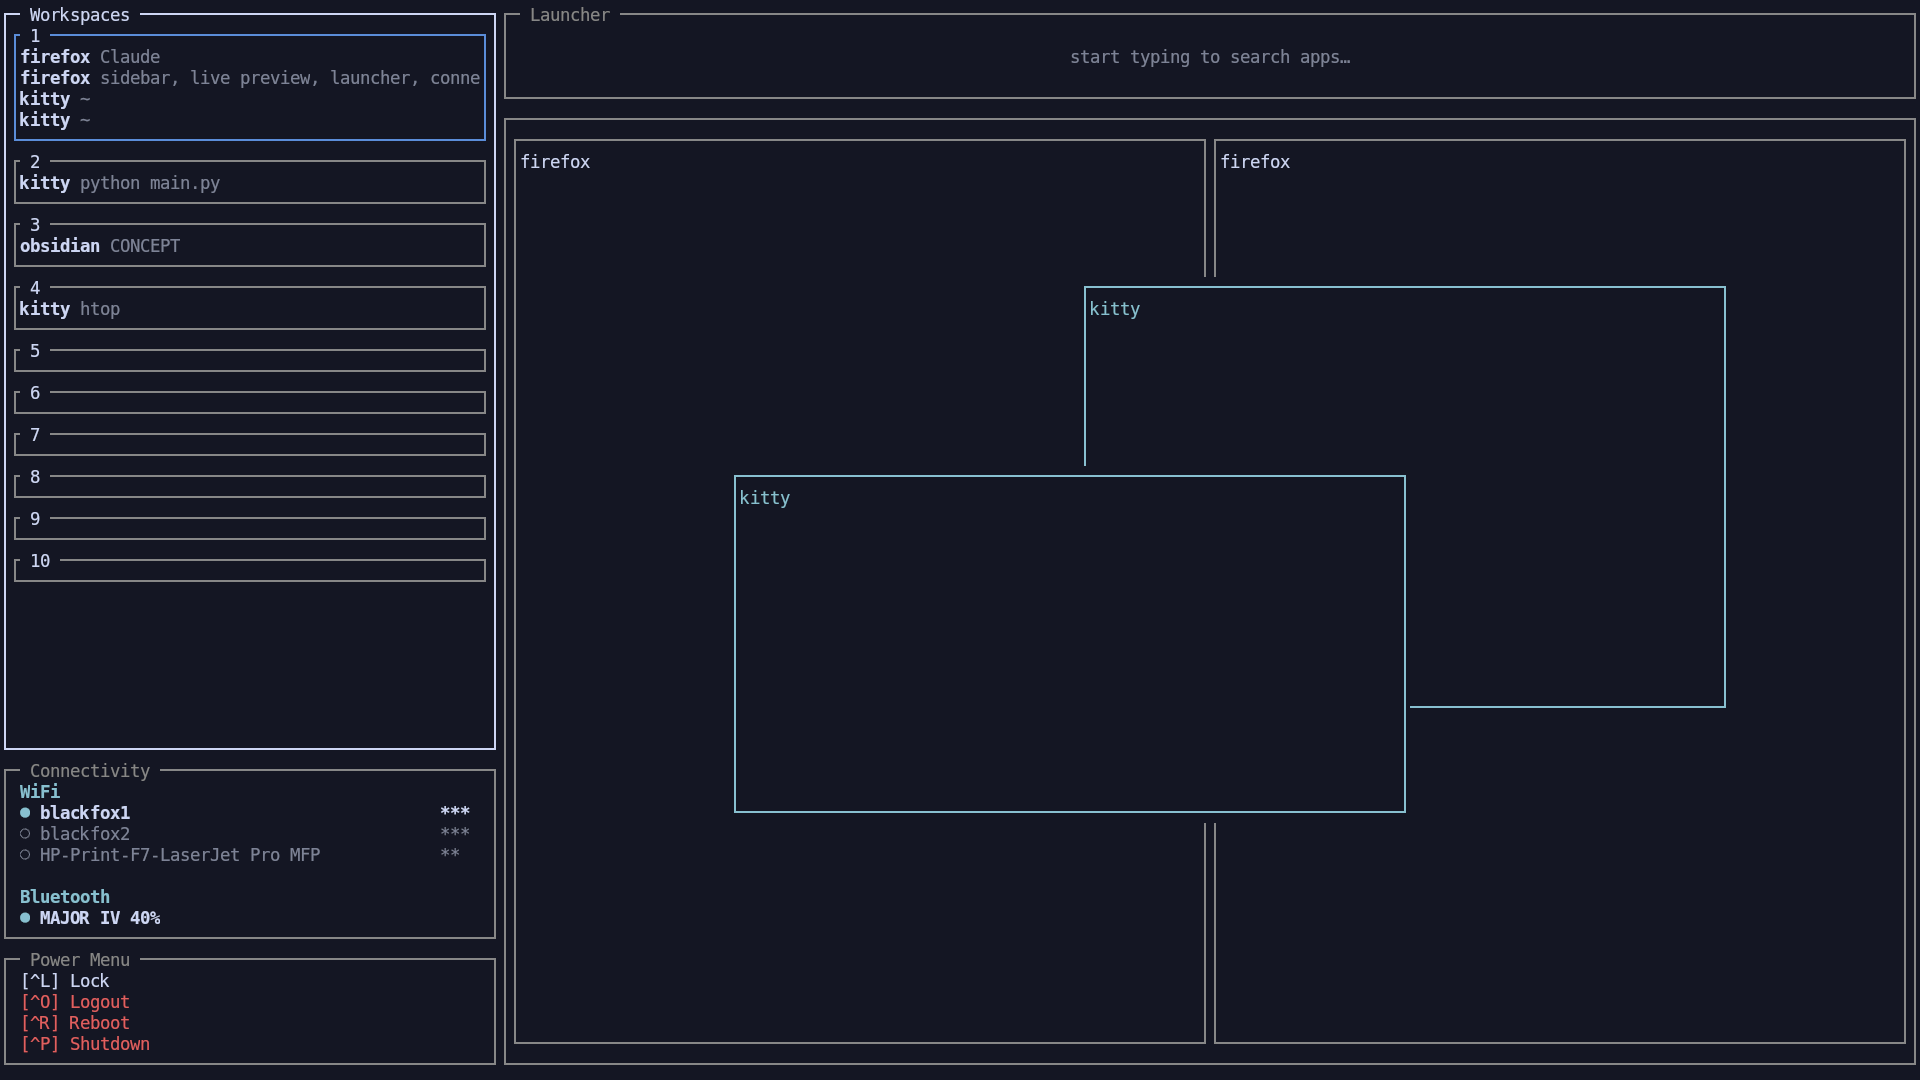
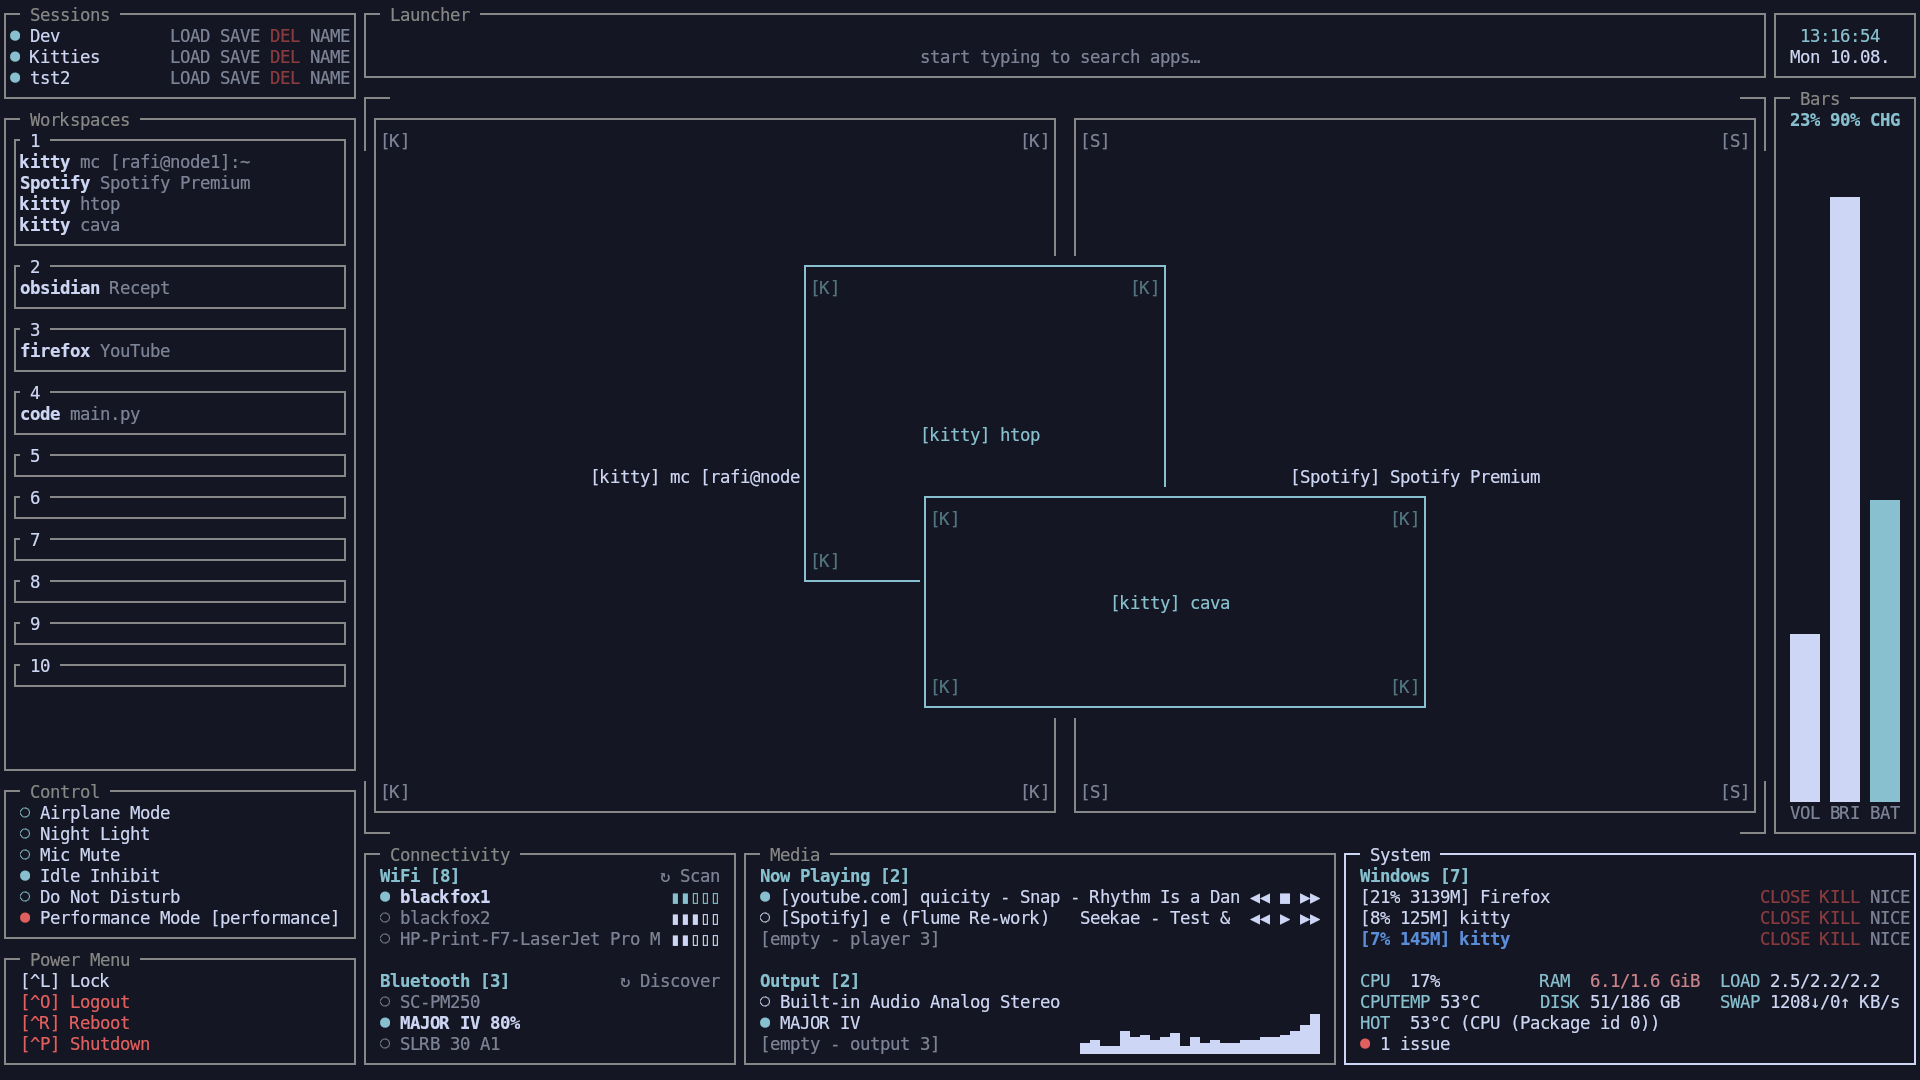
README: fresh screenshots, a closer-look gallery, fix stale claims
Main screenshot.png replaced with a current capture (live, right after
the preview.py corner-label rework in the previous commit) — the old
one predates several features shown in it now.

New "A closer look" section, six screenshots + captions, one per
behavior asked to be called out specifically:
- Control's hover preview showing the exact command about to run
  (including a SHELL=TRUE warning when shell_true is set)
- Power menu's Y/N confirm before a destructive action
- Sessions' load preview — incoming windows shown in red against each
  target workspace's current contents, before you commit to loading
- WiFi's header hover showing every scanned network, not just the
  visible_slots-limited rows the list itself shows
- Media's Now Playing/Output lists, using the same scrollable
  fixed-slot mechanic as every other list here (visible_slots = 3 by
  default, configurable per module)
- System's per-window stats plus a diagnostics issue expanded via
  hover (a real bluetoothd error, captured live)

Also fixed two claims the new gallery would otherwise flatly
contradict sitting right next to it: the feature list still said wifi
"connecting to a new network needs a passphrase flow that isn't built
yet" (R4 built this) and listed a "System info/process monitor
module" under "Not yet built" (R6 built this, and it's now one of
the six screenshots below that exact line). Added a System bullet to
the main feature list too, which never had one. This is a narrow fix
[…]

diff --git a/README.md b/README.md
@@ -28,7 +28,7 @@ Don´t like that it´s fullscreen?
 
 This is an early project of mine — what I'm excited about is that it's theoretically possible to run on any tiling WM, as long as you're able to write your own WM provider: **the only part of the code that talks directly to your WM** and translates it into tuicc's data.
 
-![tuicc showing a workspace with overlapping floating windows](./screenshot.png)
+![tuicc's default layout — sidebar, sessions, launcher, preview, connectivity, media, system, bars](./screenshot.png)
 https://github.com/Lshika-linux/tuicc
 
 ## Why
@@ -58,20 +58,46 @@ Right now it can:
 - Tab through workspaces in the sidebar — the preview follows your selection, independent of the WM's own focus
 - Arrow-key navigate into the preview and between individual windows (tiled and floating), then Enter to actually focus that window or switch to that workspace, dismissing tuicc
 - Fuzzy-search and launch apps from a horizontal launcher strip, spawned onto whichever workspace the sidebar currently has selected — not by switching focus first, but by spawning normally and moving the new window once it appears
-- Show wifi and bluetooth status (known networks only — connecting to a new network needs a passphrase flow that isn't built yet) and toggle connections
+- Show wifi and bluetooth status, connect to known AND new networks (typing a passphrase when one's needed, via a real D-Bus agent registered with iwd/NetworkManager — see [Config Reference](https://github.com/Lshika-linux/tuicc/wiki/Config-Reference) for both supported backends) and pair new bluetooth devices
 - System toggles you define yourself — night light, airplane mode, power profiles, do-not-disturb, whatever on/off (or multi-state cycling) shell command your own setup already uses; a status check plus a command per state, nothing hardcoded to a specific tool
 - See what's playing over MPRIS (any player that supports it — browsers, Spotify, mpv with the right plugin, ...), control play/pause/next/previous, switch which audio output device is default, and (optionally, if you have `cava` installed) a small live frequency visualizer next to the output list
   (control and media aren't in the default layout preset yet — spawn either with `F6`, or add a `[[box]]` for it to your own preset; see [Config Reference](https://github.com/Lshika-linux/tuicc/wiki/Config-Reference))
+- A system module: CPU/RAM per open window (CLOSE/KILL/renice), a compact CPU/RAM/disk/load/temperature/swap stats grid, and a one-line diagnostics summary (failed systemd units, OOM kills, deduped journal errors) that expands into the real detail on hover
 - A power menu (lock, logout, reboot, shutdown, all user-defined) as a simple keyboard-navigable list, each entry with an optional confirm prompt and an optional keyboard shortcut
 - Global keyboard shortcuts — bind a key like `Ctrl+L` to any power-menu action, and it fires from anywhere in the running app, not just when that entry happens to be selected
 - Load layout, navigation, provider, and theme settings from a TOML config, with transparent, human-editable presets (no hidden defaults in code) — colors accept named values, hex, or [R,G,B], approximated to the nearest of curses's 256-color palette
 - Both providers are covered by a small fixture-based test suite (`tests/`), recorded from real sway and i3 sessions, so provider changes can be checked without a running WM, covering everything from provider parsing to layout math to config validation
 
+## A closer look
+
+**Control shows you the exact command before it runs.** Hover any toggle and the preview shows what will actually execute — including whether it goes through a real shell (`shell_true`), not just the friendly label.
+
+![Control module's hover preview showing the exact shell command about to run, with a SHELL=TRUE warning](./screenshots/control-preview.png)
+
+**Destructive actions ask first.** Anything with `confirm = true` — shutdown, reboot, logout, or your own quick actions — shows a plain Y/N prompt before it runs anything.
+
+![Power menu's Y/N confirmation before shutting down](./screenshots/power-menu-confirm.png)
+
+**Loading a session tells you exactly what's about to change.** Windows that would spawn show up in red under the workspace they're headed for, right alongside what's already there — so you know before you commit whether a workspace's existing windows are about to get replaced.
+
+![Sessions module previewing incoming windows in red against each workspace's current contents](./screenshots/sessions-preview.png)
+
+**Hover the WiFi header for the full scan list.** The list itself only shows a few rows at a time, but hovering "WiFi" shows every network tuicc currently sees.
+
+![Hovering WiFi's header to preview all available networks at once](./screenshots/wifi-available-networks.png)
+
+**Media's lists scroll too.** Now Playing and Output both use the same fixed-slot-plus-scroll list every scrollable module here shares — 3 visible rows by default, independently configurable per module via `visible_slots` in `config.toml`.
+
+![Media module's Now Playing and Output lists](./screenshots/media-scrollable.png)
+
+**System gives you a live per-window resource readout, plus what's actually wrong on the machine.** CPU/RAM per open window (with CLOSE/KILL/NICE actions), a compact CPU/RAM/DISK/LOAD/temperature/swap stats grid, and a one-line diagnostics summary — failed systemd units, OOM kills, and deduped journal errors — that expands on hover into the real detail behind each issue.
+
+![System module's per-window stats and diagnostics summary, with an expanded issue detail](./screenshots/system-info.png)
+
 Not yet built:
 
 - scrollable-WM support (`scroll`/niri, see "Writing your own WM provider" below, most likely not in V0.1.0 tho :c unless someone would want to help);
 - a `quick_actions` module exists in the code but isn't wired into the default layout yet (reserved for something more open-ended later).
-- System info/process monitor module (CPU/RAM per window, kill a runaway process from the list)
 - Volume/brightness sliders in the control module (the toggle/cycle side is done — a slider is a different interaction shape, still pending)
 
 ## Try it 
